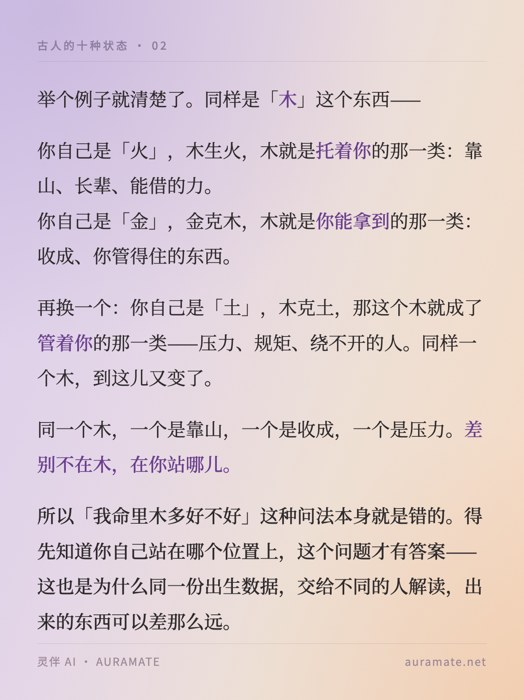
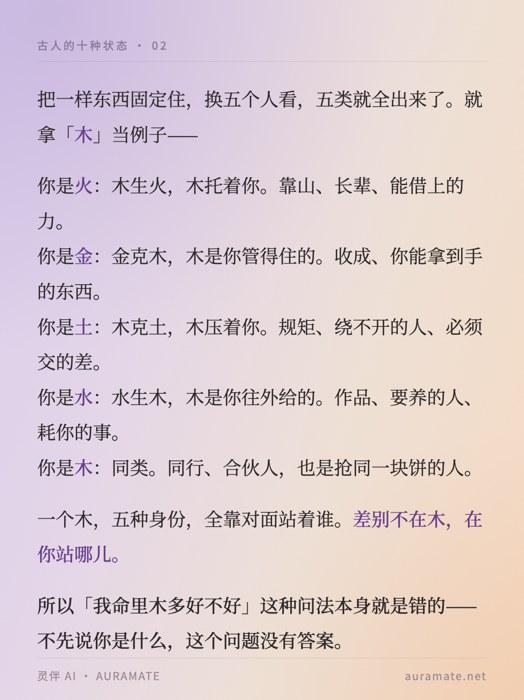
文案改成有推导的：一条机制解释两个相反现象
用户：「没有很多含金量、有逻辑性的内容」。根因是**只写结论，不写推导**。
最讽刺的一处：理念帖里批评「古人写下来的东西只有结论没有理由」，
同一批稿子的十神篇却写着「阴阳不同的作用直接、相同的更钝或走偏」——
同样是给了结论、没给理由。

补上的都是真推导：

十神「为什么阴阳同不同这么要紧」——一条机制：阴阳相异两边气是通的，
相同是相斥的。套在「生」上：气通泄得猛，不通泄得慢。套在「克」上：
气通是能商量的约束，不通就是硬碰硬。**同一个通不通，落在帮上是猛、
落在管上反而是柔**，这就是为什么没法用「正好偏坏」概括。
（一条机制解释两个相反现象——这才是含金量。）

十神「换个人就变」——把「木」固定住换五个人看，五类一次走完：
你是火木托着你 / 是金木是你的收成 / 是土木压着你 / 是水木是你往外给的 /
是木是同行也是对手。读者自己就能推第六种为什么不存在。

理念帖——给了一个真拆过的还原例子：「此人宜出外」四个字没写理由，
还原出来的前提是「你缺的那样在出生地少、在别处多」；条件一换结论就变，
四个字还原完是三种情况，古书只写了其中一种。

节令——补上「为什么长夏配土」：五元素配四季正好四个，土没地方放；
古人让土不主一季、专管「转换」，夏秋之交是最典型的转换期就归给它。
再往下一步，五脏里管转化的正是脾，两边对的是同一件事。

数据背书——补方法论：为什么用宏平均不用总平均（四届题量不一样），
为什么砍掉 2021（那年没有人类成绩，口径对不上）。自己给自己找茬，
但读者看到的是「他真做过」。

规则写进 03-copywriting 第六节「含金量 = 有推导，不是有观点」：
三条检验（每个断言后面有没有为什么 / 有没有例子走完全程 / 有没有说边界）
+ 四种反面模式 + 「字数是下限，含金量是上限；先想清楚推导链，字数是结果」。

20 张仍全部写满，红线通过。

diff --git a/docs/demo/02-shishen-4.html b/docs/demo/02-shishen-4.html
@@ -26,10 +26,11 @@ html,body{width:1242px;height:1660px;font-family:'Noto Serif SC','Songti SC',ser
 </style></head><body><div class="frame">
 <div class="kicker">古人的十种状态 · 03</div>
 <div class="body">
-  <p>关系一共只有五类。因为那五种元素两两之间只可能有五种关系：<span class="em">帮我的、我帮的、管我的、我管的、跟我一样的</span>。想不出第六种。</p>
-  <p>每一类再分成两个，分法是看<span class="em">阴阳同不同</span>。阴阳不同的那个，两边有牵引，作用直接、来得快；阴阳相同的那个，没这层牵引，劲儿更钝或者走偏。</p>
-  <p>举个能感觉到的例子：同样是「我帮的」这一类，阴阳相同的那个，力气是慢慢往外渗的，人显得温和、不着急；阴阳相异的那个，中间有股拉力，一旦开了口就收不住，话说得又快又冲。</p>
-  <p><span class="last">五类乘二，正好十个。所以「十」不是古人凑了十个词，是这个结构算下来只能是十个——不多一个，也不少一个。知道这一点之后再回头看那十个名字，就不会觉得是硬背了。</span></p>
+  <p>关系只有五类，因为那五种元素两两之间只可能有五种关系：<span class="em">帮我的、我帮的、管我的、我管的、跟我一样的</span>。想不出第六种。</p>
+  <p>每类再分二，分法是看<span class="em">阴阳同不同</span>。为什么这个这么要紧？就一条机制：<span class="em">阴阳相异，两边气是通的；阴阳相同，是相斥的。</span></p>
+  <p>把这一条分别套到「生」和「克」上，结果正好相反——</p>
+  <p>套在<span class="em">我帮的</span>（生）上：气通，力气泄得又快又猛，话一开口收不住；气不通，泄得慢，人显得温吞。<br/>套在<span class="em">管我的</span>（克）上：气通，那股约束是能商量的，像个有分寸的上级；气不通，就是硬碰硬，纯压着。</p>
+  <p><span class="last">同一个「通不通」，落在「帮」上是猛，落在「管」上反而是柔。这就是为什么没法用一句「正就是好、偏就是坏」概括——它压根不是好坏，是通不通。</span></p>
 </div>
 <div class="foot"><span>灵伴 AI · AURAMATE</span><span>auramate.net</span></div>
 </div></body></html>

diff --git a/docs/demo/02-shishen-3.html b/docs/demo/02-shishen-3.html
@@ -26,11 +26,10 @@ html,body{width:1242px;height:1660px;font-family:'Noto Serif SC','Songti SC',ser
 </style></head><body><div class="frame">
 <div class="kicker">古人的十种状态 · 02</div>
 <div class="body">
-  <p>举个例子就清楚了。同样是「<span class="em">木</span>」这个东西——</p>
-  <p>你自己是「火」，木生火，木就是<span class="em">托着你</span>的那一类：靠山、长辈、能借的力。<br/>你自己是「金」，金克木，木就是<span class="em">你能拿到</span>的那一类：收成、你管得住的东西。</p>
-  <p>再换一个：你自己是「土」，木克土，那这个木就成了<span class="em">管着你</span>的那一类——压力、规矩、绕不开的人。同样一个木，到这儿又变了。</p>
-  <p>同一个木，一个是靠山，一个是收成，一个是压力。<span class="em">差别不在木，在你站哪儿。</span></p>
-  <p><span class="last">所以「我命里木多好不好」这种问法本身就是错的。得先知道你自己站在哪个位置上，这个问题才有答案——这也是为什么同一份出生数据，交给不同的人解读，出来的东西可以差那么远。</span></p>
+  <p>把一样东西固定住，换五个人看，五类就全出来了。就拿「<span class="em">木</span>」当例子——</p>
+  <p>你是<span class="em">火</span>：木生火，木托着你。靠山、长辈、能借上的力。<br/>你是<span class="em">金</span>：金克木，木是你管得住的。收成、你能拿到手的东西。<br/>你是<span class="em">土</span>：木克土，木压着你。规矩、绕不开的人、必须交的差。<br/>你是<span class="em">水</span>：水生木，木是你往外给的。作品、要养的人、耗你的事。<br/>你是<span class="em">木</span>：同类。同行、合伙人，也是抢同一块饼的人。</p>
+  <p>一个木，五种身份，全靠对面站着谁。<span class="em">差别不在木，在你站哪儿。</span></p>
+  <p><span class="last">所以「我命里木多好不好」这种问法本身就是错的——不先说你是什么，这个问题没有答案。</span></p>
 </div>
 <div class="foot"><span>灵伴 AI · AURAMATE</span><span>auramate.net</span></div>
 </div></body></html>

diff --git a/docs/demo/09-linian-2.html b/docs/demo/09-linian-2.html
@@ -29,8 +29,9 @@ html,body{width:1242px;height:1660px;font-family:'Noto Serif SC','Songti SC',ser
   <p>一开始我们也以为核心是准确率。拿四届专家赛的真题做盲测，一版一版调，分数确实能提，但提到某个点就卡住了。</p>
   <p>卡住的原因不在模型。是<span class="em">古人写下来的东西，大多只有结论没有理由</span>——「此人宜出外」下面没有一句为什么。</p>
   <p>结论可以背，推理背不了。喂再多古籍进去，模型学会的也只是「看到这个组合就说这句话」——遇到书里没写过的组合，它就开始编。</p>
-  <p>所以真正的活儿是：把散在几百年里的判断，一条条还原成<span class="em">「在什么条件下才成立」</span>。这句话在什么情况下是对的、什么情况下反过来、古人写它的时候默认了哪些前提没说出口。</p>
-  <p>这活儿慢，也没法外包——因为要做的不是翻译，是<span class="last">替一群不在了的人补上他们省略的理由</span>。</p>
+  <p>所以真正的活儿是：把散在几百年里的判断，一条条还原成<span class="em">「在什么条件下才成立」</span>。举个我们真拆过的：</p>
+  <p>古书里有句「此人宜出外」，四个字，下面没有理由。还原出来是这样——这句成立的前提是：<span class="em">你缺的那一样，在出生地偏少、在别处偏多。</span>所以它不是一句祝福，是一个带条件的推论。</p>
+  <p>条件一换，结论就变：你缺的那样要是哪儿都一样少，走出去也补不上；你要是本来就不缺，出去反而是白折腾。<span class="last">四个字，还原完是三种情况，古书只写了其中一种。这活儿没法外包——要做的不是翻译，是替一群不在了的人补上他们省略的那一步。</span></p>
 </div>
 <div class="foot"><span>灵伴 AI · AURAMATE</span><span>auramate.net</span></div>
 </div></body></html>

diff --git a/docs/demo/05-baziqa-3.html b/docs/demo/05-baziqa-3.html
@@ -26,7 +26,8 @@ html,body{width:1242px;height:1660px;font-family:'Noto Serif SC','Songti SC',ser
 </style></head><body><div class="frame">
 <div class="kicker">模型测评 · 02</div>
 <div class="body">
-  <p>先说清楚口径，不然这张图没意义：题目是 2022 到 2025 四届全球专家赛的真题，盲测——模型和人做的是同一批题，答完再对答案。蓝色那三根是历届冠亚季军的成绩，橙色是灵伴，灰色是五个通用大模型。</p>
+  <p>先说清楚口径，不然这张图没意义。题是 2022–2025 四届全球专家赛的真题，盲测：模型只拿到题面和出生数据，标准答案不给，答完再对。蓝色三根是历届冠亚季军，橙色是灵伴，灰色是五个通用大模型。</p>
+  <p>两个容易被忽略的处理：一、用<span class="em">宏平均</span>不是总平均——四届题量不一样，总平均会被题多的那届带偏。二、2021 那届<span class="em">砍掉了</span>，因为那年没有人类选手成绩，放进去人类那三根柱子就不是同一口径了。</p>
   <p>灵伴 <span class="em">37.1%</span>，比在场所有通用大模型都高。但离人类冠军的 44.4% 还差一截——<span class="em">我们没有赢过人，这个得说实话</span>。看到有人把这类图做成「AI 已超越人类专家」，那不是我们的数。</p>
   <p>还有一句也得说实话：这张图只包含我们本地测过的五个模型。最新的几个模型在我们另一份榜单上已经反超了灵伴，而那份榜单里没有灵伴这一行，所以没法画到一起来。要加，得先补测。</p>
   <p><span class="last">数好看不好看是一回事，口径老实不老实是另一回事。后者更值钱。</span></p>

diff --git a/docs/demo/08-jieling-3.html b/docs/demo/08-jieling-3.html
@@ -26,7 +26,9 @@ html,body{width:1242px;height:1660px;font-family:'Noto Serif SC','Songti SC',ser
 </style></head><body><div class="frame">
 <div class="kicker">节气手记 · 02</div>
 <div class="body">
-  <p>长夏在这套模型里对应的脏是<span class="em">脾</span>。脾管的是把吃进去的东西转成能用的力气。</p>
+  <p>为什么单给它配一个脏？先看一个凑不上的数：五种元素配四季，木春、火夏、金秋、水冬——正好四个，<span class="em">土没地方放</span>。</p>
+  <p>古人的处理是：土不主一季，它管的是「<span class="em">转换</span>」这件事本身。而夏秋之交是一年里最典型的转换期，就归给它。所以长夏配土，不是凑数，是因为那段时间身体干的活儿正好是转化——把闷在外面的湿热，转成自己能用的东西。</p>
+  <p>再往下一步就接上了：五脏里管转化的，正是<span class="em">脾</span>。脾干的活儿就是把吃进去的东西转成能用的力气。两边对的是同一件事。</p>
   <p>湿气一重它就转不动，于是第一反应就是不想吃、吃完困、身上发沉——正好是上面那几样。</p>
   <p>所以「最先扛不住的地方」不是硬套出来的，是长夏配土、土配脾这条对应关系直接推下来的——这套模型里，每一段时间都有它对应的那个脏，长夏对的就是脾。</p>
   <p>顺带能解释另外几件事：为什么这几天特别想吃重口的（转不动就想找刺激），为什么明明没干什么却累（力气卡在半路没转成），为什么一喝冰的反而更沉（本来就转不动，再泼一盆凉水）。</p>

diff --git a/docs/demo/build.py b/docs/demo/build.py
@@ -217,29 +217,30 @@ body('02-shishen-2.html', '古人的十种状态 · 01', [
 ])
 
 body('02-shishen-3.html', '古人的十种状态 · 02', [
- '举个例子就清楚了。同样是「<span class="em">木</span>」这个东西——',
- '你自己是「火」，木生火，木就是<span class="em">托着你</span>的那一类：靠山、长辈、能借的力。<br/>'
- '你自己是「金」，金克木，木就是<span class="em">你能拿到</span>的那一类：收成、你管得住的东西。',
- '再换一个：你自己是「土」，木克土，那这个木就成了<span class="em">管着你</span>的那一类——'
- '压力、规矩、绕不开的人。同样一个木，到这儿又变了。',
- '同一个木，一个是靠山，一个是收成，一个是压力。'
+ '把一样东西固定住，换五个人看，五类就全出来了。就拿「<span class="em">木</span>」当例子——',
+ '你是<span class="em">火</span>：木生火，木托着你。靠山、长辈、能借上的力。<br/>'
+ '你是<span class="em">金</span>：金克木，木是你管得住的。收成、你能拿到手的东西。<br/>'
+ '你是<span class="em">土</span>：木克土，木压着你。规矩、绕不开的人、必须交的差。<br/>'
+ '你是<span class="em">水</span>：水生木，木是你往外给的。作品、要养的人、耗你的事。<br/>'
+ '你是<span class="em">木</span>：同类。同行、合伙人，也是抢同一块饼的人。',
+ '一个木，五种身份，全靠对面站着谁。'
  '<span class="em">差别不在木，在你站哪儿。</span>',
- '<span class="last">所以「我命里木多好不好」这种问法本身就是错的。'
- '得先知道你自己站在哪个位置上，这个问题才有答案——这也是为什么'
- '同一份出生数据，交给不同的人解读，出来的东西可以差那么远。</span>',
+ '<span class="last">所以「我命里木多好不好」这种问法本身就是错的——'
+ '不先说你是什么，这个问题没有答案。</span>',
 ])
 
 body('02-shishen-4.html', '古人的十种状态 · 03', [
- '关系一共只有五类。因为那五种元素两两之间只可能有五种关系：'
+ '关系只有五类，因为那五种元素两两之间只可能有五种关系：'
  '<span class="em">帮我的、我帮的、管我的、我管的、跟我一样的</span>。想不出第六种。',
- '每一类再分成两个，分法是看<span class="em">阴阳同不同</span>。'
- '阴阳不同的那个，两边有牵引，作用直接、来得快；阴阳相同的那个，没这层牵引，劲儿更钝或者走偏。',
- '举个能感觉到的例子：同样是「我帮的」这一类，阴阳相同的那个，'
- '力气是慢慢往外渗的，人显得温和、不着急；阴阳相异的那个，中间有股拉力，'
- '一旦开了口就收不住，话说得又快又冲。',
- '<span class="last">五类乘二，正好十个。所以「十」不是古人凑了十个词，'
- '是这个结构算下来只能是十个——不多一个，也不少一个。'
- '知道这一点之后再回头看那十个名字，就不会觉得是硬背了。</span>',
+ '每类再分二，分法是看<span class="em">阴阳同不同</span>。'
+ '为什么这个这么要紧？就一条机制：<span class="em">阴阳相异，两边气是通的；阴阳相同，是相斥的。</span>',
+ '把这一条分别套到「生」和「克」上，结果正好相反——',
+ '套在<span class="em">我帮的</span>（生）上：气通，力气泄得又快又猛，话一开口收不住；'
+ '气不通，泄得慢，人显得温吞。<br/>'
+ '套在<span class="em">管我的</span>（克）上：气通，那股约束是能商量的，像个有分寸的上级；'
+ '气不通，就是硬碰硬，纯压着。',
+ '<span class="last">同一个「通不通」，落在「帮」上是猛，落在「管」上反而是柔。'
+ '这就是为什么没法用一句「正就是好、偏就是坏」概括——它压根不是好坏，是通不通。</span>',
 ])
 
 pair('02-shishen-5.html', '古人的十种状态', '同样是<span class="em">我帮的</span>，阴阳同不同，出来两个样',
@@ -337,9 +338,12 @@ shot('05-baziqa-2.html', '模型测评 · 01',
           '灵伴 <span class="em">37.1%</span> 排在通用模型全部之上、人类季军之下。')
 
 body('05-baziqa-3.html', '模型测评 · 02', [
- '先说清楚口径，不然这张图没意义：题目是 2022 到 2025 四届全球专家赛的真题，'
- '盲测——模型和人做的是同一批题，答完再对答案。'
- '蓝色那三根是历届冠亚季军的成绩，橙色是灵伴，灰色是五个通用大模型。',
+ '先说清楚口径，不然这张图没意义。题是 2022–2025 四届全球专家赛的真题，'
+ '盲测：模型只拿到题面和出生数据，标准答案不给，答完再对。'
+ '蓝色三根是历届冠亚季军，橙色是灵伴，灰色是五个通用大模型。',
+ '两个容易被忽略的处理：一、用<span class="em">宏平均</span>不是总平均——'
+ '四届题量不一样，总平均会被题多的那届带偏。二、2021 那届<span class="em">砍掉了</span>，'
+ '因为那年没有人类选手成绩，放进去人类那三根柱子就不是同一口径了。',
  '灵伴 <span class="em">37.1%</span>，比在场所有通用大模型都高。'
  '但离人类冠军的 44.4% 还差一截——<span class="em">我们没有赢过人，这个得说实话</span>。'
  '看到有人把这类图做成「AI 已超越人类专家」，那不是我们的数。',
@@ -469,8 +473,13 @@ body('08-jieling-2.html', '节气手记 · 01', [
 ])
 
 body('08-jieling-3.html', '节气手记 · 02', [
- '长夏在这套模型里对应的脏是<span class="em">脾</span>。'
- '脾管的是把吃进去的东西转成能用的力气。',
+ '为什么单给它配一个脏？先看一个凑不上的数：五种元素配四季，'
+ '木春、火夏、金秋、水冬——正好四个，<span class="em">土没地方放</span>。',
+ '古人的处理是：土不主一季，它管的是「<span class="em">转换</span>」这件事本身。'
+ '而夏秋之交是一年里最典型的转换期，就归给它。所以长夏配土，不是凑数，'
+ '是因为那段时间身体干的活儿正好是转化——把闷在外面的湿热，转成自己能用的东西。',
+ '再往下一步就接上了：五脏里管转化的，正是<span class="em">脾</span>。'
+ '脾干的活儿就是把吃进去的东西转成能用的力气。两边对的是同一件事。',
  '湿气一重它就转不动，于是第一反应就是不想吃、吃完困、身上发沉——'
  '正好是上面那几样。',
  '所以「最先扛不住的地方」不是硬套出来的，'
@@ -520,10 +529,14 @@ body('09-linian-2.html', '我们怎么想的 · 01', [
  '结论可以背，推理背不了。喂再多古籍进去，模型学会的也只是'
  '「看到这个组合就说这句话」——遇到书里没写过的组合，它就开始编。',
  '所以真正的活儿是：把散在几百年里的判断，一条条还原成'
- '<span class="em">「在什么条件下才成立」</span>。'
- '这句话在什么情况下是对的、什么情况下反过来、'
- '古人写它的时候默认了哪些前提没说出口。',
- '这活儿慢，也没法外包——因为要做的不是翻译，是<span class="last">替一群不在了的人补上他们省略的理由</span>。',
+ '<span class="em">「在什么条件下才成立」</span>。举个我们真拆过的：',
+ '古书里有句「此人宜出外」，四个字，下面没有理由。还原出来是这样——'
+ '这句成立的前提是：<span class="em">你缺的那一样，在出生地偏少、在别处偏多。</span>'
+ '所以它不是一句祝福，是一个带条件的推论。',
+ '条件一换，结论就变：你缺的那样要是哪儿都一样少，走出去也补不上；'
+ '你要是本来就不缺，出去反而是白折腾。'
+ '<span class="last">四个字，还原完是三种情况，古书只写了其中一种。'
+ '这活儿没法外包——要做的不是翻译，是替一群不在了的人补上他们省略的那一步。</span>',
 ])
 
 body('09-linian-3.html', '我们怎么想的 · 02', [

diff --git a/skills/auramate-tuwen/references/03-copywriting.md b/skills/auramate-tuwen/references/03-copywriting.md
@@ -136,7 +136,64 @@ node tools/check-fill.js posts/post-xxx/     # 量每张正文块底部的空隙
 输出 `✓ 填充 96% 293 字` 或 `✗ 填充 56% 底部空 589px 155 字`。
 **出图后必跑**，跟 `redline-scan.sh` 一样是发布前的两道机械关。
 
-## 六、正文结构
+## 六、含金量 = 有推导，不是有观点
+
+字数够了不等于内容够。用户 2026-08-10 的原话：
+「你的文字内容有待加强，没有给我很多含金量、有逻辑性的内容」。
+
+**根因：只写结论，不写推导。** 最讽刺的一次是在理念帖里批评「古人写下来的东西只有结论
+没有理由」，同一批稿子的十神篇却写着「阴阳不同的作用直接、相同的更钝或走偏」——
+同样是给了结论、没给理由。
+
+### 三条检验，写完逐条问
+
+**① 每个断言后面有没有「为什么」？**
+
+```
+❌ 「阴阳不同的作用直接，相同的更钝」          ← 结论，读者只能背
+✅ 「阴阳相异，两边气是通的；相同，是相斥的。
+     套在『生』上：气通泄得猛，不通泄得慢。
+     套在『克』上：气通是能商量的约束，不通就是硬碰硬。
+     同一个通不通，落在帮上是猛，落在管上反而是柔。」   ← 一条机制解释两种相反现象
+```
+
+**能用一条机制解释两个相反现象，含金量就出来了。**
+
+**② 有没有一个例子走完全程？**
+
+抽象讲三段，不如把一个具体例子从头走到尾。
+
+```
+✅ 「拿『木』当例子，换五个人看：你是火，木托着你；你是金，木是你的收成；
+     你是土，木压着你；你是水，木是你往外给的；你是木，是同行也是对手。」
+     ← 五类一次走完，读者自己就能推第六种为什么不存在
+✅ 「古书写『此人宜出外』，没写理由。还原出来是：你缺的那样在出生地少、在别处多。
+     条件一换结论就变——哪儿都一样少，出去也补不上；本来不缺，出去是白折腾。
+     四个字还原完是三种情况，古书只写了其中一种。」
+```
+
+**③ 有没有说边界？**
+
+敢讲「什么情况下不成立」的内容才可信。「宏平均不是总平均，因为四届题量不一样」
+「2021 那届砍掉了，因为没有人类成绩，口径对不上」——这种话是自己给自己找茬，
+但读者看到的是「他真做过」。
+
+### 反面模式（命中就是没含金量）
+
+```
+并列堆砌     A 是这样、B 是那样、C 也很重要 —— 是清单不是逻辑
+空转的「其实」 用「其实 / 本质上 / 说到底」引出一个没有推导的断言
+只说难不说难在哪 「这件事很难」后面不接「难在第几步」
+数字没有来源  「提升了 30%」不说怎么测的
+```
+
+### 跟字数规则的关系
+
+字数是**下限**，含金量是**上限**。280 字的空话仍然是空话——
+但反过来，有推导的内容自然写得长，因为「为什么」比「是什么」占字。
+**先想清楚推导链，字数是结果。**
+
+## 七、正文结构
 
 小红书正文 300–600 字最佳。标准五段：
 
@@ -150,7 +207,7 @@ node tools/check-fill.js posts/post-xxx/     # 量每张正文块底部的空隙
 
 **收尾不要 CTA。** 「评论区扣 1」「私信我」都是 redline。可以用一句开放的话自然引出互动，比如「你今天是哪一种」，但不要指令性话术。
 
-## 七、把钩子桥到功能（最关键的一步）
+## 八、把钩子桥到功能（最关键的一步）
 
 日常最高频的工作模式：用户丢来一个热点 / 一张别人的爆款封面 / 一个心理概念，说「下一个选题按这个方向」。
 
@@ -169,7 +226,7 @@ node tools/check-fill.js posts/post-xxx/     # 量每张正文块底部的空隙
 
 这个「痛点 → 缺的东西 → 功能给了它 → 哲思落点」是**主力线的万能骨架**。
 
-## 八、常用口吻：创始人手记
+## 九、常用口吻：创始人手记
 
 「我做的这个 AI…」「我最近把它的 X 模块做完了…」
 
@@ -179,7 +236,7 @@ node tools/check-fill.js posts/post-xxx/     # 量每张正文块底部的空隙
 - 不是营销，是分享
 - 用户对「一个人在认真做东西」有天然好感
 
-## 九、标签
+## 十、标签
 
 10 个左右。原则：
 

diff --git a/skills/auramate-tuwen/SKILL.md b/skills/auramate-tuwen/SKILL.md
@@ -85,6 +85,8 @@ reframe → 产品 ×2 → 落点少一步都断）。定张数之前先看子 s
 1. 定角度   钩子 → 桥到哪个产品功能。功能清单在 references/00-brand.md
 2. 定类型   查上面路由表 → 读对应子 skill
 3. 写文案   references/03-copywriting.md。先写完整文案，再想图
+            两个硬指标：正文页 280-340 字（第五节）+ 每个断言后面有「为什么」（第六节）
+            含金量来自推导链，不是观点数量
 4. 找素材   references/04-assets.md。优先级：已有高清截图 > 录屏扒帧 > 让用户发 > codex 生插画
 5. 出图     templates/ 挑模板 → 写 slide-N.html → node render.js
             ⚠ 素材本来是动的（灵体形态 / 产品动效）→ 出 GIF 不出静帧，
